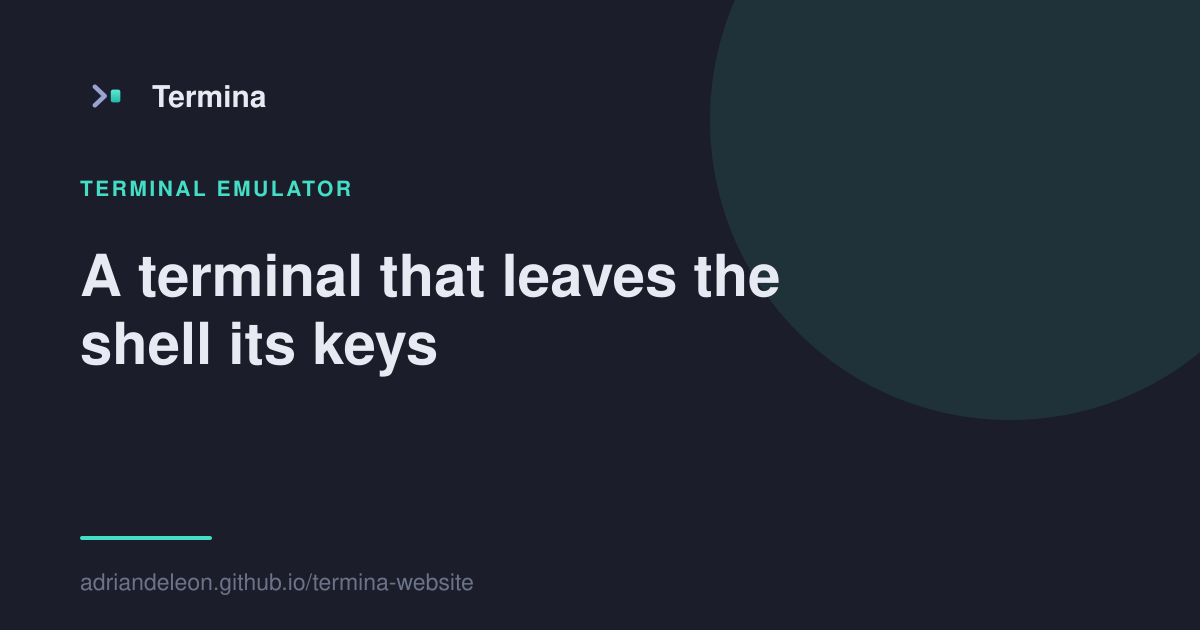
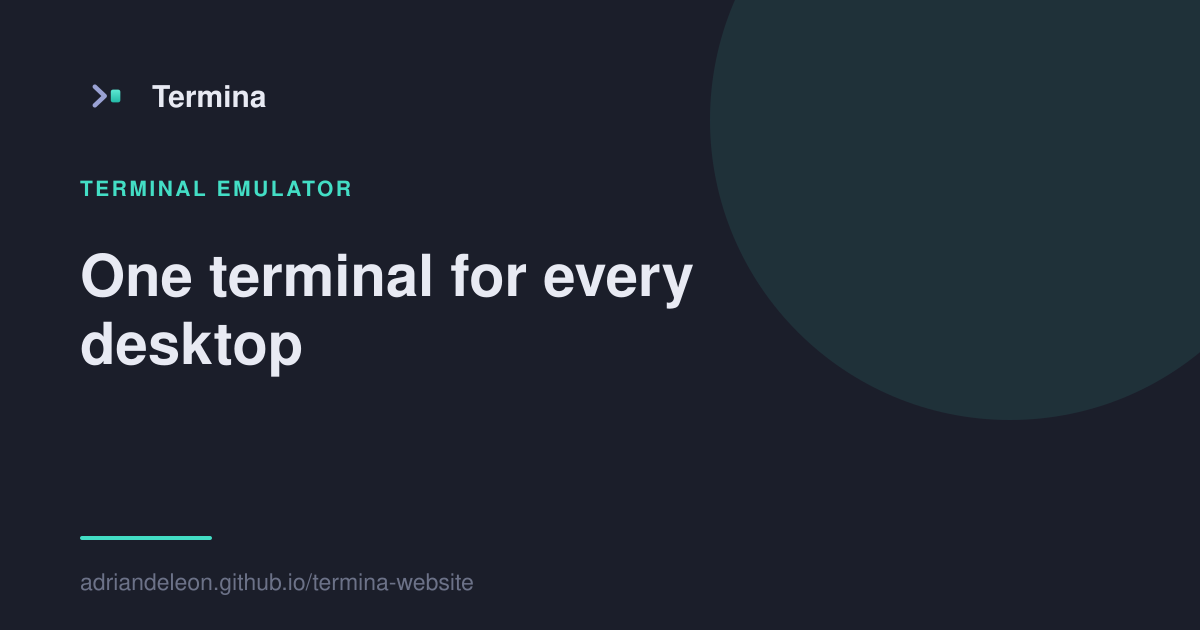
New tagline, and drop the FAQ's has-it-been-run entry
"One terminal for every desktop" replaces "A terminal that leaves the
shell its keys" in the hero, the page title, the footer and the shared
social card.

Changed region(s): [[0.0617, 0.3921, 0.6475, 0.4825], [0.0617, 0.5127, 0.37, 0.6032]]

diff --git a/src/content/docs/faq.md b/src/content/docs/faq.md
@@ -1,6 +1,6 @@
 ---
 title: FAQ
-description: Licensing, data collection, platforms and what has been run, signing, why JavaFX, why the emulator is JediTerm, tmux, vim and ssh, ligatures, images and the kitty keyboard protocol, the relationship to Editora, and reporting issues.
+description: Licensing, data collection, platforms, signing, why JavaFX, why the emulator is JediTerm, tmux, vim and ssh, ligatures, images and the kitty keyboard protocol, the relationship to Editora, and reporting issues.
 category: Help
 order: 12
 ---
@@ -29,13 +29,6 @@ bundle their own Java runtime, so you do not need Java installed. They are on th
 [releases page](https://github.com/adriandeleon/Termina/releases): a `.dmg` for each Mac, an `.msi`
 for Windows, and a `.deb` and an `.rpm` for each Linux architecture. Homebrew and winget packages
 are planned but not published yet.
-
-## Has it actually been run on all of them?
-
-macOS and Linux, yes. **Windows has not yet been run by a person.** CI builds and packages
-Windows on every commit, and the Windows half of shell discovery (finding both PowerShells, Git
-Bash and the WSL distributions) is tested with stand-ins for the system, but that is not the same
-as running it. Reports from Windows users are especially welcome.
 
 ## The app is unsigned. How do I open it?
 
